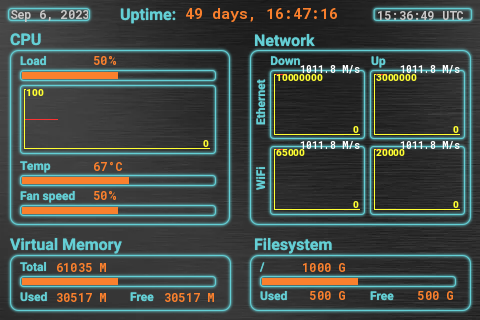
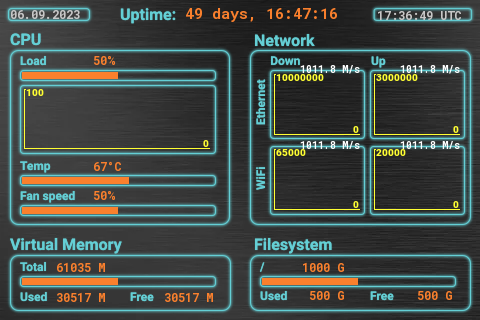
Fotos, Tray-Menü auf sudoAndro Studio umgestellt
- Echte Display-Fotos im README
- Tray: 'sudoAndro Studio öffnen' statt altem Configure (Monitor läuft weiter),
  Eulen-Icon, deutscher Beenden-Eintrag
- Erste-Start-Logik und Installationsskripte

diff --git a/main.py b/main.py
@@ -114,21 +114,21 @@ if __name__ == "__main__":
         clean_stop()
 
     def on_configure_tray(tray_icon, item):
-        logger.info("Configure from tray icon")
-
+        # Oeffnet das sudoAndro Studio - der Monitor laeuft dabei WEITER
+        # (das Studio rendert nur simuliert und braucht den COM-Port nicht)
+        logger.info("Open sudoAndro Studio from tray icon")
         try:
-            # Load Python file with local python interpreter (useful for venvs)
-            configure_file = next(MAIN_DIRECTORY.glob("configure.py"))
-            subprocess.Popen([sys.executable, str(configure_file)])
-        except:
-            # Load binary (for releases) or Python file with system interpreter
-            configure_file = next(MAIN_DIRECTORY.glob("configure*"))
-            if platform.system() == "Windows":
-                subprocess.Popen([str(configure_file)], shell=True)
+            studio_exe = MAIN_DIRECTORY / "sudoAndro-Studio.exe"
+            studio_py = MAIN_DIRECTORY / "theme-studio.py"
+            pythonw = MAIN_DIRECTORY / ".venv" / "Scripts" / "pythonw.exe"
+            if studio_exe.exists():
+                subprocess.Popen([str(studio_exe)], cwd=str(MAIN_DIRECTORY))
+            elif pythonw.exists() and studio_py.exists():
+                subprocess.Popen([str(pythonw), str(studio_py)], cwd=str(MAIN_DIRECTORY))
             else:
-                subprocess.Popen([str(configure_file)])
-
-        clean_stop(tray_icon)
+                subprocess.Popen([sys.executable, str(studio_py)], cwd=str(MAIN_DIRECTORY))
+        except Exception as e:
+            logger.error("Could not open sudoAndro Studio: %s" % e)
 
     def on_exit_tray(tray_icon, item):
         logger.info("Exit from tray icon")
@@ -170,17 +170,20 @@ if __name__ == "__main__":
 
     # Create a tray icon for the program, with an Exit entry in menu
     try:
+        tray_icon_file = MAIN_DIRECTORY / "res/themes/sudoAndro/sudoandro-icon.png"
+        if not tray_icon_file.exists():
+            tray_icon_file = MAIN_DIRECTORY / "res/icons/monitor-icon-17865/64.png"
         tray_icon = pystray.Icon(
-            name='Turing System Monitor',
-            title='Turing System Monitor',
-            icon=Image.open(MAIN_DIRECTORY / "res/icons/monitor-icon-17865/64.png"),
+            name='sudoAndro Monitor',
+            title='sudoAndro Monitor',
+            icon=Image.open(tray_icon_file),
             menu=pystray.Menu(
                 pystray.MenuItem(
-                    text='Configure',
+                    text='sudoAndro Studio öffnen',
                     action=on_configure_tray),
                 pystray.Menu.SEPARATOR,
                 pystray.MenuItem(
-                    text='Exit',
+                    text='Monitor beenden (Display aus)',
                     action=on_exit_tray)
             )
         )

diff --git a/README.md b/README.md
@@ -7,7 +7,7 @@ Display-Aus beim Abmelden/Herunterfahren.
 
 *English summary below.*
 
-![sudoAndro Theme](docs/theme-sudoandro.png)
+![sudoAndro Display](docs/foto-sudoandro.jpg)
 
 ## ✨ Was kann es?
 
@@ -23,6 +23,10 @@ Display-Aus beim Abmelden/Herunterfahren.
 - **Selbstheilung:** hängengebliebene Displays werden beim Start automatisch zurückgesetzt
 
 ![sudoAndro Studio](docs/sudoandro-studio.png)
+
+| Eigenes Theme im Studio gebaut | Mitgeliefertes Theme | Mitgeliefertes Theme |
+|---|---|---|
+| ![sudoAndro](docs/theme-sudoandro.png) | ![Theme 2](docs/foto-theme2.jpg) | ![Theme 3](docs/foto-theme3.jpg) |
 
 ## 🖥️ Unterstützte Hardware
 